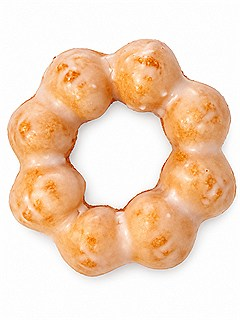
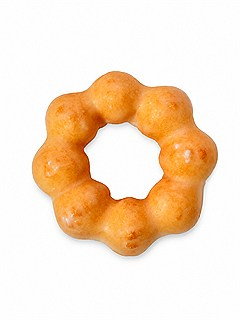
Add files via upload

diff --git a/index.html b/index.html
@@ -442,7 +442,7 @@
     <div class="week-redesign">
       <div class="week-hero-split">
         <div class="week-hero-photo" id="week-feature-card">
-          <img class="week-hero-img" id="week-feature-img" src="PumpkinPatch-hero.jpg" alt="Pumpkin Spice Patch mochi donut" loading="lazy"/>
+          <img class="week-hero-img" id="week-feature-img" src="OGGlazed-hero.jpg" alt="OG Glazed mochi donut" loading="lazy"/>
           <div class="week-hero-scrim"></div>
           <svg class="week-doodle week-doodle-1" viewBox="0 0 60 60" aria-hidden="true"><circle cx="30" cy="30" r="20" fill="none" stroke="#fff" stroke-width="2" opacity=".5"/><circle cx="30" cy="30" r="7" fill="none" stroke="#fff" stroke-width="2" opacity=".5"/></svg>
           <svg class="week-doodle week-doodle-2" viewBox="0 0 60 70" aria-hidden="true"><path d="M14 22h32l-4 40a4 4 0 0 1-4 4H22a4 4 0 0 1-4-4z" fill="none" stroke="#fff" stroke-width="2" opacity=".5"/><path d="M20 22a10 10 0 0 1 20 0" fill="none" stroke="#fff" stroke-width="2" opacity=".5"/></svg>
@@ -450,7 +450,7 @@
           <button class="week-arrow week-arrow-onphoto-right" data-dir="next" aria-label="Next flavor">&#8250;</button>
           <div class="week-hero-overlay">
             <span class="week-feature-badge" id="week-feature-badge">Featured Flavor</span>
-            <h3 class="week-feature-name" id="week-feature-name">Pumpkin (Spice) Patch</h3>
+            <h3 class="week-feature-name" id="week-feature-name">OG Glazed</h3>
             <p class="week-feature-desc" id="week-feature-desc" style="display:none"></p>
             <div class="week-feature-icons">
               <div class="wfi wfi-onphoto"><svg viewBox="0 0 24 24" fill="none" stroke="currentColor" stroke-width="1.8" stroke-linecap="round" stroke-linejoin="round"><circle cx="12" cy="12" r="9"/><path d="M12 7v5l3 3"/></svg><span>Made Fresh Daily</span></div>
@@ -465,7 +465,7 @@
         <div class="week-side fade-in-scroll">
           <svg class="week-side-icon" viewBox="0 0 24 24" fill="none" stroke="var(--pink)" stroke-width="1.8" stroke-linecap="round" stroke-linejoin="round" aria-hidden="true"><circle cx="12" cy="12" r="9"/><circle cx="12" cy="12" r="3"/></svg>
           <span class="tag">Mochi Donuts</span>
-          <h2 class="week-h2 week-side-name" id="week-side-name">Pumpkin (Spice) Patch <span class="week-heart">&#9825;</span></h2>
+          <h2 class="week-h2 week-side-name" id="week-side-name">OG Glazed <span class="week-heart">&#9825;</span></h2>
           <p class="week-desc week-side-desc" id="week-side-desc">Handcrafted fresh every morning in small batches with lots of love.</p>
           <div class="week-side-btns">
             <a href="https://bestiesboba.square.site/" target="_blank" rel="noopener noreferrer"><button class="btn-fill btn-big btn-icon"><svg viewBox="0 0 24 24" fill="none" stroke="currentColor" stroke-width="2" stroke-linecap="round" stroke-linejoin="round"><path d="M6 2 3 6v14a2 2 0 0 0 2 2h14a2 2 0 0 0 2-2V6l-3-4Z"/><path d="M3 6h18"/><path d="M16 10a4 4 0 0 1-8 0"/></svg>Order Now</button></a>
@@ -479,15 +479,15 @@
         <div class="week-thumb-row">
         <button class="week-arrow week-arrow-small" data-dir="prev" aria-label="Previous flavor">&#8249;</button>
         <div class="week-thumbs" id="week-thumbs">
-          <button class="week-thumb is-active" data-index="0" data-img="PumpkinPatch-hero.jpg" data-name="Pumpkin (Spice) Patch" data-desc="" data-badge="Featured Flavor"><img src="PumpkinPatch-thumb.jpg" alt="Pumpkin (Spice) Patch" loading="lazy"/></button>
-          <button class="week-thumb" data-index="1" data-img="PrettyLittleWitch-hero.jpg" data-name="Pretty Little Witch (Strawberry)" data-desc="" data-badge=""><img src="PrettyLittleWitch-thumb.jpg" alt="Pretty Little Witch (Strawberry)" loading="lazy"/></button>
-          <button class="week-thumb" data-index="2" data-img="OreoSpider-hero.jpg" data-name="Oreo Spider" data-desc="" data-badge=""><img src="OreoSpider-thumb.jpg" alt="Oreo Spider" loading="lazy"/></button>
-          <button class="week-thumb" data-index="3" data-img="GreenGoblinChurro-hero.jpg" data-name="Green Goblin Churro (Pandan)" data-desc="" data-badge=""><img src="GreenGoblinChurro-thumb.jpg" alt="Green Goblin Churro (Pandan)" loading="lazy"/></button>
-          <button class="week-thumb" data-index="4" data-img="FrankensteinMatcha-hero.jpg" data-name="Frankenstein Matcha" data-desc="" data-badge=""><img src="FrankensteinMatcha-thumb.jpg" alt="Frankenstein Matcha" loading="lazy"/></button>
-          <button class="week-thumb" data-index="5" data-img="SpookyChocolate-hero.jpg" data-name="Spooky Chocolate" data-desc="" data-badge=""><img src="SpookyChocolate-thumb.jpg" alt="Spooky Chocolate" loading="lazy"/></button>
-          <button class="week-thumb" data-index="6" data-img="FunnelCakeBloodyDip-hero.jpg" data-name="Funnel Cake with (Strawberry) Bloody Dip" data-desc="" data-badge=""><img src="FunnelCakeBloodyDip-thumb.jpg" alt="Funnel Cake with (Strawberry) Bloody Dip" loading="lazy"/></button>
-          <button class="week-thumb" data-index="7" data-img="UbeMonster-hero.jpg" data-name="Ube Monster" data-desc="" data-badge=""><img src="UbeMonster-thumb.jpg" alt="Ube Monster" loading="lazy"/></button>
-          <button class="week-thumb" data-index="8" data-img="BooBaby-hero.jpg" data-name="Boo Baby (Vanilla)" data-desc="" data-badge=""><img src="BooBaby-thumb.jpg" alt="Boo Baby (Vanilla)" loading="lazy"/></button>
+          <button class="week-thumb is-active" data-index="0" data-img="OGGlazed-hero.jpg" data-name="OG Glazed" data-desc="" data-badge="Featured Flavor"><img src="OGGlazed-thumb.jpg" alt="OG Glazed" loading="lazy"/></button>
+          <button class="week-thumb" data-index="1" data-img="StrawberryShortcake-hero.jpg" data-name="Strawberry Shortcake" data-desc="" data-badge=""><img src="StrawberryShortcake-thumb.jpg" alt="Strawberry Shortcake" loading="lazy"/></button>
+          <button class="week-thumb" data-index="2" data-img="BrownSugarMilkTea-hero.jpg" data-name="Brown Sugar Milk Tea" data-desc="" data-badge=""><img src="BrownSugarMilkTea-thumb.jpg" alt="Brown Sugar Milk Tea" loading="lazy"/></button>
+          <button class="week-thumb" data-index="3" data-img="Churro-hero.jpg" data-name="Churro" data-desc="" data-badge=""><img src="Churro-thumb.jpg" alt="Churro" loading="lazy"/></button>
+          <button class="week-thumb" data-index="4" data-img="Melona-hero.jpg" data-name="Melona" data-desc="" data-badge=""><img src="Melona-thumb.jpg" alt="Melona" loading="lazy"/></button>
+          <button class="week-thumb" data-index="5" data-img="Oreo-hero.jpg" data-name="Oreo" data-desc="" data-badge=""><img src="Oreo-thumb.jpg" alt="Oreo" loading="lazy"/></button>
+          <button class="week-thumb" data-index="6" data-img="FruityPebbles-hero.jpg" data-name="Fruity Pebbles" data-desc="" data-badge=""><img src="FruityPebbles-thumb.jpg" alt="Fruity Pebbles" loading="lazy"/></button>
+          <button class="week-thumb" data-index="7" data-img="FruitPunch-hero.jpg" data-name="Fruit Punch" data-desc="" data-badge=""><img src="FruitPunch-thumb.jpg" alt="Fruit Punch" loading="lazy"/></button>
+          <button class="week-thumb" data-index="8" data-img="ChocolateSprinkles-hero.jpg" data-name="Chocolate Sprinkles" data-desc="" data-badge=""><img src="ChocolateSprinkles-thumb.jpg" alt="Chocolate Sprinkles" loading="lazy"/></button>
         </div>
         <button class="week-arrow week-arrow-small" data-dir="next" aria-label="Next flavor">&#8250;</button>
         </div>

diff --git a/about.html b/about.html
@@ -74,7 +74,7 @@
 <div style="height:110px;"></div>
 
 <section id="about" class="about-section">
-  <div class="fade-in-scroll"><img class="about-img" src="interior.png" alt="Inside the Besties Boba &amp; Bites shop in Livermore, with seating and the drink counter"/></div>
+  <div class="fade-in-scroll"><img class="about-img" src="about-interior.jpg" alt="Inside Besties Boba &amp; Bites in Livermore: the pink flower wall with the Boba Friends Forever neon sign, pink booth seating and marble tables"/></div>
   <div>
     <h2 class="about-h2">About Us</h2>
     <p class="about-p">At Besties Boba & Bites, we believe every sip tastes better with friends! Born from the idea that boba brings people together, we're your local hangout for fun drinks, sweet treats, yummy snacks, and good vibes. Whether you're catching up with your bestie, treating yourself to something tasty, or discovering your new favorite flavor, we've got you covered.</p>
